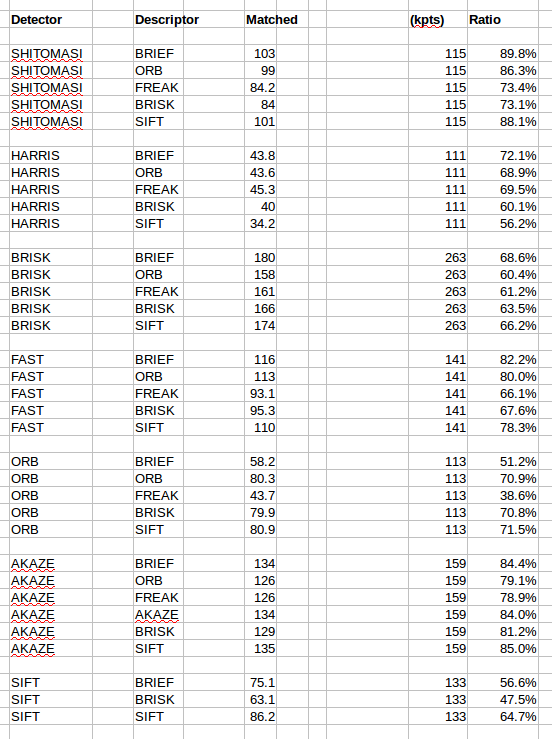
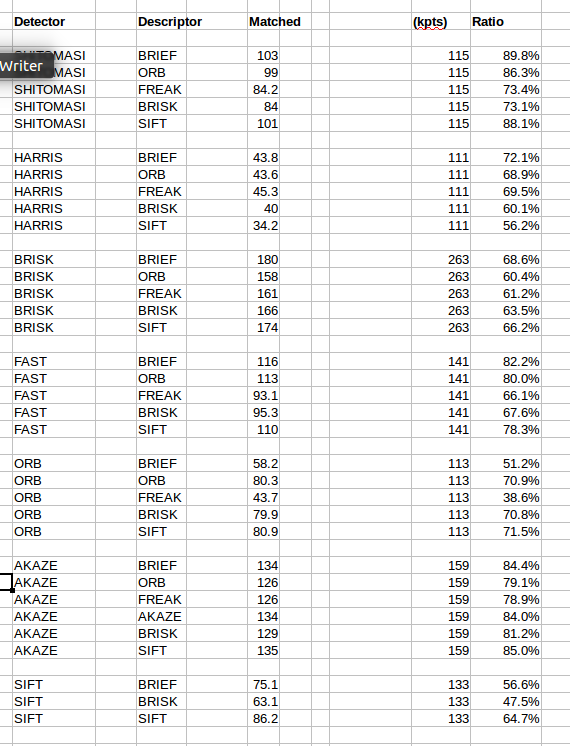
MP8 image modified and more results discussed.

Changed region(s): [[0.0, 0.0, 1.0, 1.0]]

diff --git a/README.md b/README.md
@@ -1,6 +1,6 @@
 # Feature Tracking
 
-<img src="images/keypoints.png" width="820" height="248" />
+<img src="images/keypoints.png" />
 
 The midterm project is in three parts, MP7, MP8 and MP9.
 
@@ -12,7 +12,7 @@ Given a set of 10 images, count the number of keypoints found in each image usin
 The results I obtained are contained in a spread sheet and log file in the spreadsheets directory in file MP7.ods.
 The figure below is a screen shot of the summarized results. 'AVG' refers to averaged results over ten images:
 
-<img src="images/MP7.png" width="640" height="248" />
+<img src="images/MP7.png" width="640" height="200" />
 
 Of note is that:
 
@@ -32,4 +32,18 @@ The figure below is a screen shot of the summarized results. 'AVG' refers to ave
 
 <img src="images/MP8.png" />
 
+As before detailed results are in found in the spreadsheets directory. The above image are averaged results. Column 'Matched' refers to the count of matched keypoints or features. Column '(kpts)' refers to keypoints in the second image and is included for reference. Finally, columnd 'Ratio' is the ratio of matched keypoints to keypoints in the second image.
+
 Of note is that:
+
+* The greatest number of matched keypoints occurs with the detector BRISK;
+
+
+Project MP9:
+
+The time to detect and extract features is recorder. This is done for all combinations of detectors and descriptors as in MP.8.
+The figure below is a screen shot of the summarized results
+
+<img src="images/MP9.png" />
+
+
